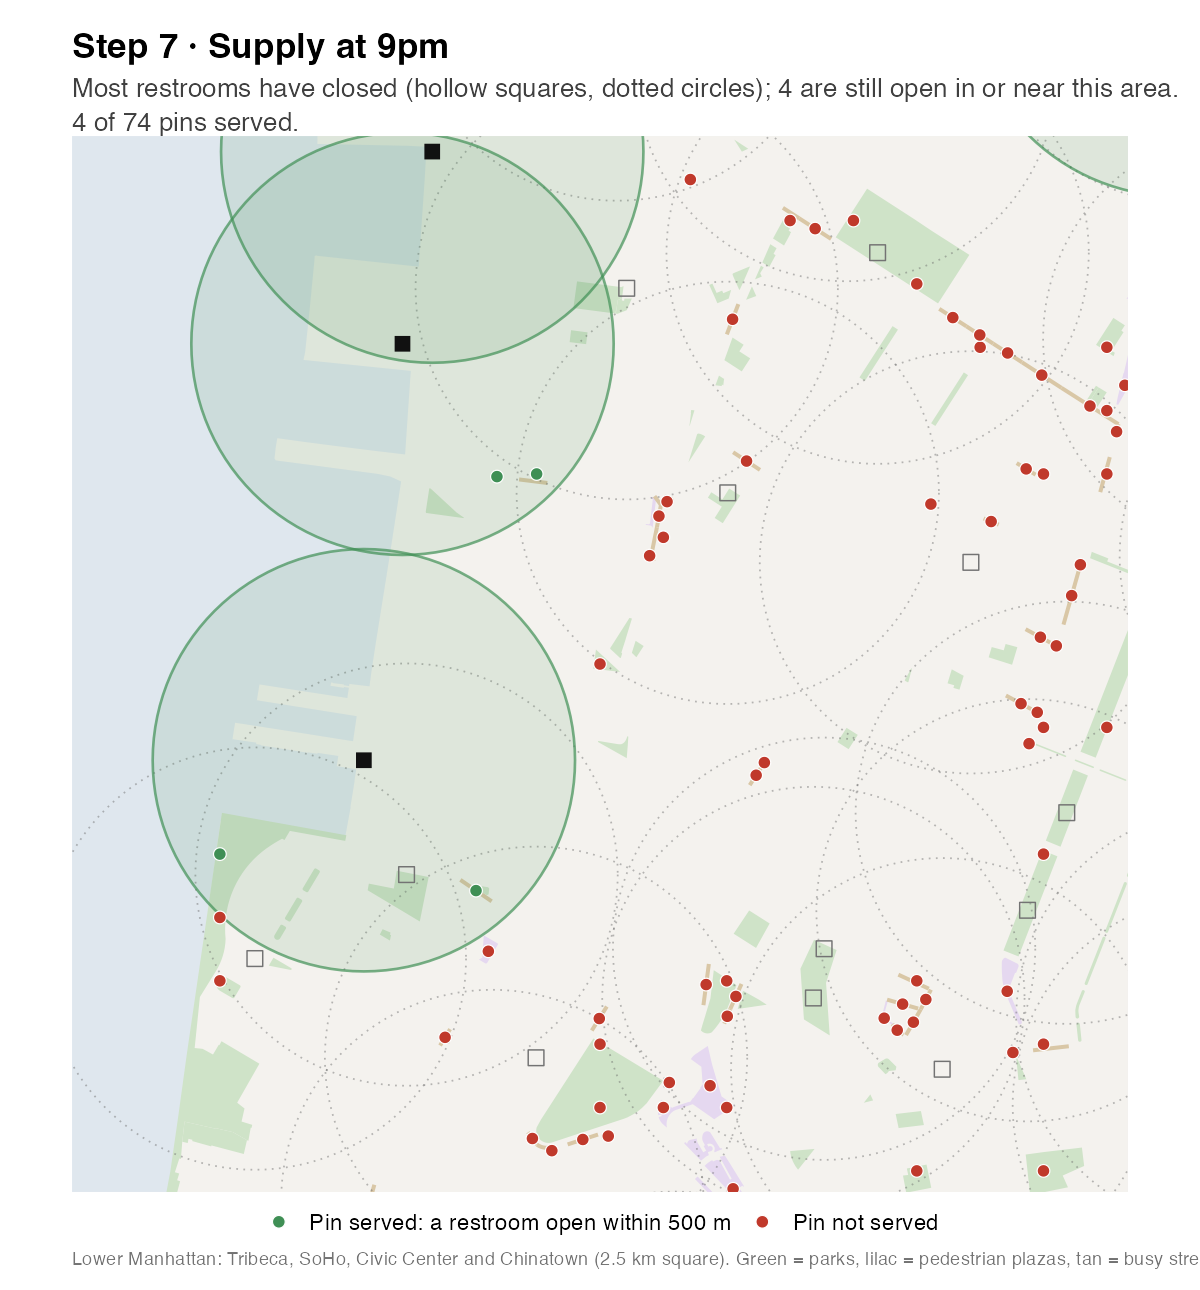
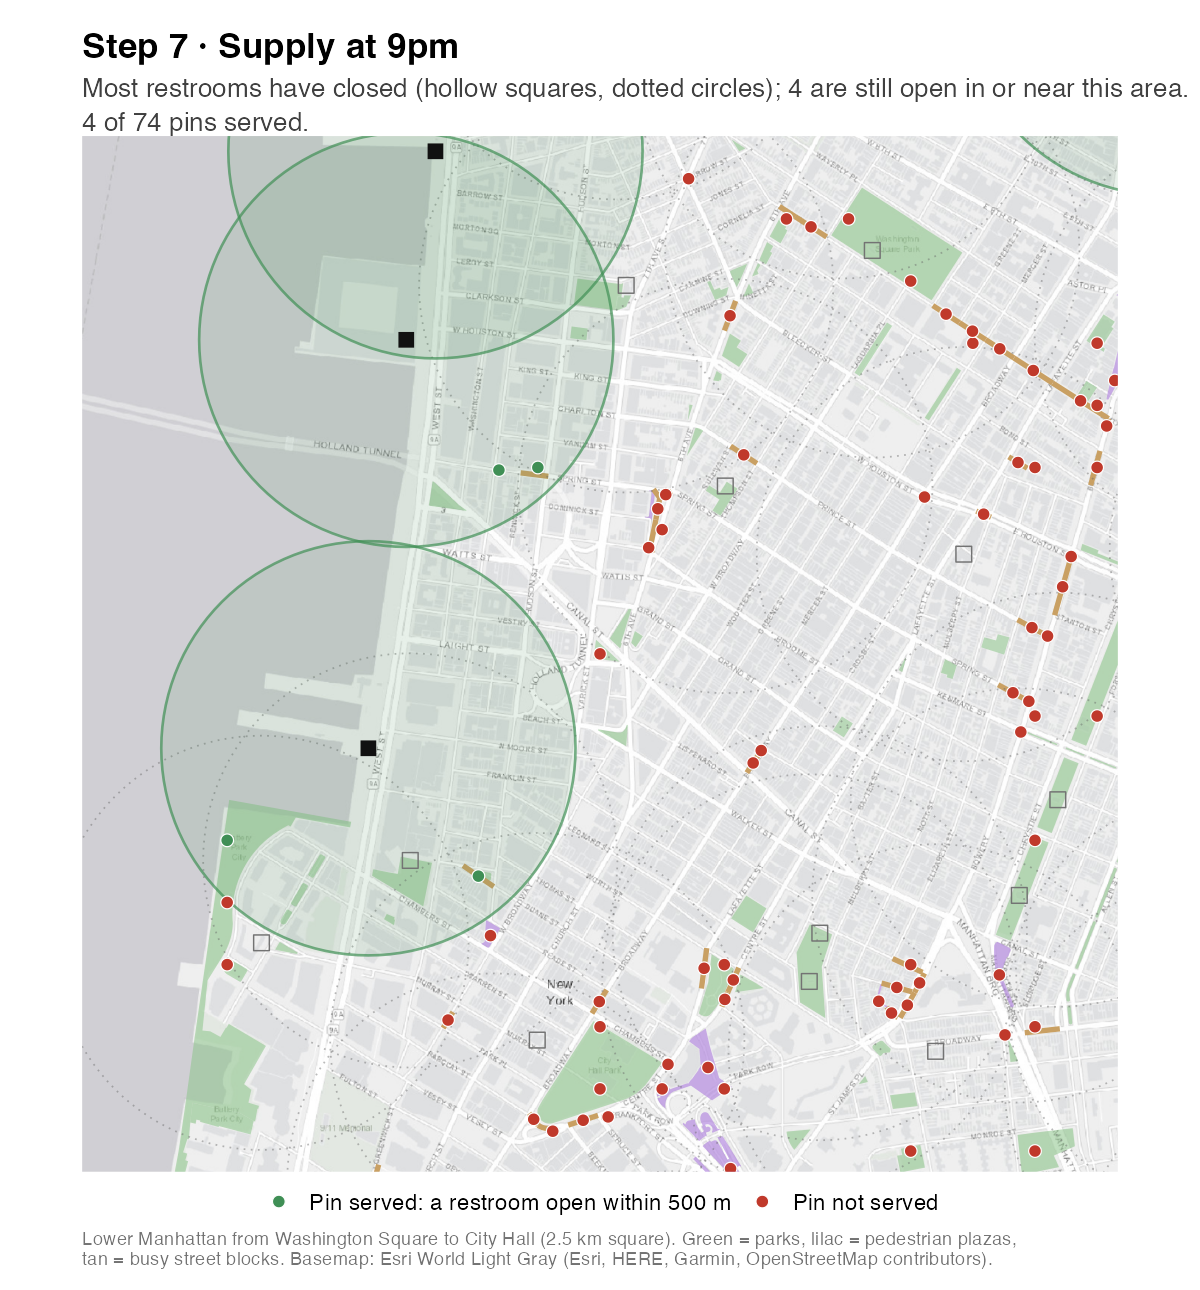
Visual guide: real basemap (Esri World Light Gray with street names) under all nine maps; clearer step 1 text

diff --git a/index.html b/index.html
@@ -826,6 +826,7 @@ An area is underserved when it has insufficient access "because of a lack of pub
 <tr><td>Subway ridership by station</td><td><a href="https://data.ny.gov/d/ak4z-sape" target="_blank" rel="noopener">MTA <code>ak4z-sape</code></a></td><td>Transit factor (2025 entries)</td><td class="n">2, 5</td></tr>
 <tr><td>Census tracts and Neighborhood Tabulation Areas (2020)</td><td><a href="https://data.cityofnewyork.us/d/63ge-mke6" target="_blank" rel="noopener"><code>63ge-mke6</code></a>, <a href="https://data.cityofnewyork.us/d/9nt8-h7nd" target="_blank" rel="noopener"><code>9nt8-h7nd</code></a></td><td>Geography: tract poverty, borough and neighbourhood labels</td><td class="n">5, 7, 10</td></tr>
 <tr><td>Restaurant inspections (chain outlets)</td><td><a href="https://data.cityofnewyork.us/d/43nn-pn8j" target="_blank" rel="noopener">NYC DOHMH <code>43nn-pn8j</code></a></td><td>1,854 chain outlets as private-toilet supply scenarios</td><td class="n">11</td></tr>
+<tr><td>Basemap for the Visual guide</td><td><a href="https://www.arcgis.com/home/item.html?id=ed712cb1db3e4bae9e85329040fb9a49" target="_blank" rel="noopener">Esri World Light Gray</a> (Esri, HERE, Garmin, OpenStreetMap contributors)</td><td>Streets and place names under the step-by-step maps</td><td class="n">Visual guide</td></tr>
 <tr><td>Subway entries by hour of day (2025 averages)</td><td>MTA ridership, via the team research package (Steph)</td><td>Late-night activity</td><td class="n">Limits</td></tr>
 <tr><td>311 service requests: "Urinating in Public"</td><td><a href="https://data.cityofnewyork.us/d/erm2-nwe9" target="_blank" rel="noopener">NYC 311 <code>erm2-nwe9</code></a></td><td>Complaint check in the pilot model; complaint hotspots</td><td class="n">5, 13</td></tr>
 <tr><td>Parks inspection results, January–June 2026</td><td>Parks Inspection Program (above)</td><td>"One in five inspections unacceptable"</td><td class="n">8</td></tr>
@@ -1801,7 +1802,7 @@ Rscript R/Z0_headline_numbers.R   # rebuilds every number quoted on this site</c
 })();
 </script>
 <script>
-(function(){ var S=[{t:'The area',c:'A 2.5 km square of Lower Manhattan: Tribeca, SoHo, Civic Center and Chinatown. Green is park land, lilac is pedestrian plazas, and tan lines are the busiest streets. These are the places where a new restroom could stand.',a:'p-cand'},
+(function(){ var S=[{t:'The area',c:'A 2.5 km square of Lower Manhattan, from Washington Square down to City Hall: the West Village, SoHo, Tribeca, Civic Center and Chinatown. Green is park land, lilac is pedestrian plazas, and tan marks the busiest street blocks. A pin can only go on one of these three; buildings and ordinary streets are left out.',a:'p-cand'},
 {t:'Candidate sites',c:'We place a pin every 150 m on park land, plazas and busy streets. There are 74 pins in this square and 5,814 across the city. Every later step measures something at these pins.',a:'p-cand'},
 {t:'Demand: what is around one pin',c:'For one pin, draw a 500 m circle, about a 7-minute walk, and count what is inside: residents, jobs, subway riders and foot traffic. This pin in SoHo has about 12,100 residents, 59,900 jobs and 13 million subway entries a year nearby, which puts it at 76 out of 100 for demand.',a:'p-demand'},
 {t:'Demand at every pin',c:'The same count is made for every pin in the city, then ranked. Dark blue pins are in the top third, the busy places. Most pins in Lower Manhattan are.',a:'p-demand'},
